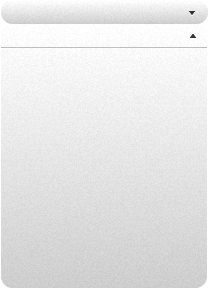
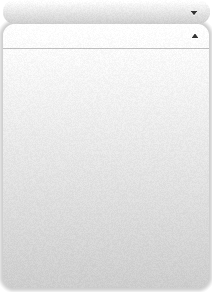
Added shadow to criteria selector

diff --git a/public/stylesheets/application.css b/public/stylesheets/application.css
@@ -108,10 +108,10 @@ div#filter a#natural_selector:hover{width: 78px; background-position: -73px 24px
 div#filter a#cultural_selector{width: 73px; background-position: 73px 0;}
 div#filter a#cultural_selector:hover{width: 73px; background-position: 73px 24px;}
 
-div#filter div#criteria {float: left; margin: 0 15px	 0 15px; }
-div#filter div#criteria span {float: left; width: 208px; height: 24px; ; background: url("/images/explore/criteria_select.png") no-repeat;}
-div#filter div#criteria span a{display: block; width: 208px; height: 24px; padding: 5px 0 0 10px; color: #333333; font: normal 13px "PT Sans Bold"; text-decoration: none;}
-div#filter div#criteria ul{position: absolute; display: none; top: 36px; width: 207px; height: 264px; padding: 4px 0 0 0; z-index: 5; background: url("/images/explore/criteria_select.png") no-repeat 0 -47px;}
+div#filter div#criteria {float: left; margin: 0 10px 0 15px; }
+div#filter div#criteria span {float: left; width: 212px; height: 24px; ; background: url("/images/explore/criteria_select.png") no-repeat -2px 0;}
+div#filter div#criteria span a{display: block; width: 212px; height: 24px; padding: 5px 0 0 10px; color: #333333; font: normal 13px "PT Sans Bold"; text-decoration: none;}
+div#filter div#criteria ul{position: absolute; display: none; top: 36px; width: 215px; height: 264px; padding: 4px 0 0 0; z-index: 5; background: url("/images/explore/criteria_select.png") no-repeat -2px -47px;}
 div#filter div#criteria ul li{padding: 4px 10px 4px 10px; font: normal 13px "Arial";}
 div#filter div#criteria ul li a{text-decoration: none; color: #333333;}
 div#filter div#criteria ul li a:hover{color: #FF9900;}
@@ -150,7 +150,7 @@ div#feature_title p.distance span#plane {background-position: 20px 7px;}
 div#feature_title p.distance span#car {background-position: 20px -24px;}
 div#feature_title p.distance span#walking {background-position: 20px -60px;}
 
- div#main_area { float: left; width: 535px; padding: 60px 25px 0 25px; color: #333333; background-color: #FFFFFF; font: 15px normal "LiberationSerifRegular";}
+div#main_area { float: left; width: 535px; padding: 60px 25px 0 25px; color: #333333; background-color: #FFFFFF; font: 15px normal "LiberationSerifRegular";}
 div#main_area h3 {margin-top: 25px; margin-bottom: 10px; color: #333333; font: normal 23px "PT Sans Bold";}
 div#main_area div#wikipedia {position: absolute; bottom: 0; width: 535px; margin: 20px 0 0 0;  padding: 20px 0 20px 0; border-top: 1px solid #CCCCCC; color: #999999; background: url("/images/wikipedia.png") no-repeat right bottom;}
 div#main_area div#wikipedia a {color: #999999; }
